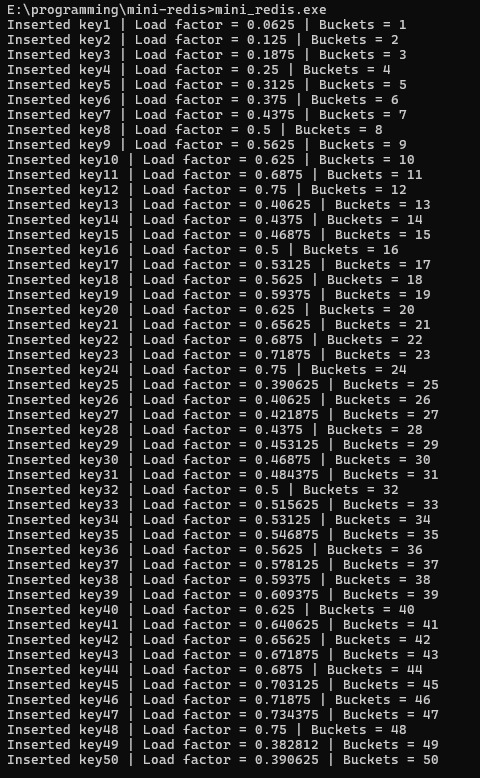
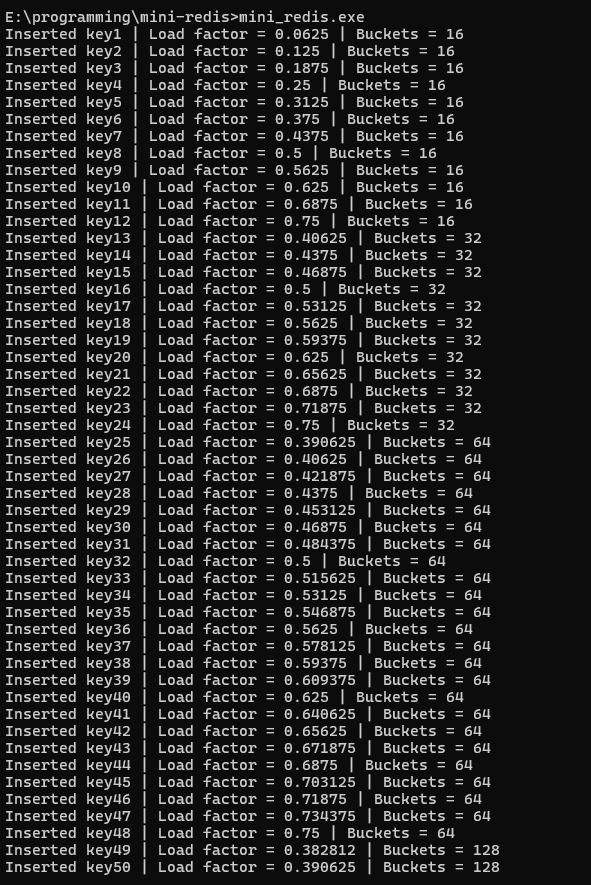
test: verified resizing with bucket count output

diff --git a/main.cpp b/main.cpp
@@ -6,12 +6,12 @@ int main() {
 
     for (int i = 1; i <= 50; i++) {
         db.insert("key" + std::to_string(i), "val" + std::to_string(i));
+
         std::cout << "Inserted key" << i
             << " | Load factor = " << db.load_factor()
-            << " | Buckets = " << i << std::endl;
+            << " | Buckets = " << db.bucket_count()
+            << std::endl;
     }
 
-
-
-	return 0;
+    return 0;
 }

diff --git a/include/database.h b/include/database.h
@@ -14,6 +14,8 @@ public:
 	void remove(const std::string& key);
 
 	double load_factor() const;
+	size_t bucket_count() const { return store_.bucket_count(); }
+
 };
 
 #endif  // MINIREDIS_INCLUDE_DATABASE_H_

diff --git a/include/hash_table.h b/include/hash_table.h
@@ -26,6 +26,9 @@ public:
 	void remove(const std::string& key);
 
 	double load_factor() const;
+	size_t bucket_count() const { return bucket_count_; }
+
+
 };
 
 #endif  // MINIREDIS_INCLUDE_HASH_TABLE_H_
